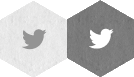
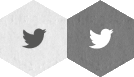
Pieliktas tumšās socikonas; Pacelta "lasīt vairāk" poga'; Titullapa biku vairāk pielāgota mazākiem ekrāniem; Slaidšovs lēnāks, animācija ātrāka, attēli nezūmojas uz šaurākiem ekrāniem

diff --git a/wp-content/plugins/dynamicContent/js/content.js b/wp-content/plugins/dynamicContent/js/content.js
@@ -733,11 +733,12 @@ var Content = Class.extend({
                   $('#background > div:first')
                     .appendTo('#background')
                     .addClass('clipCenterH');                    
-                },  6000);
+                },  8750);
                 
                 if (isMobile) {
                     $('#mback').addClass('hidden');
                 }
+                else $('#bigmore').css('bottom', $('#footer').height()*1.8 + $('#bigmore').height());
             } else {
                 $('#footer .social').css('display', 'none')
                 if (isMobile) {
@@ -794,6 +795,7 @@ var Content = Class.extend({
                 $("#mcontinue").attr('id', "bigmore");
                 this.animateObject('#mfooter #bigmore', 'fadeInUp2', 100, 'in');
             }
+            else $('#bigmore').css('bottom', $('#footer').height()*1.8 + $('#bigmore').height());
             $('#footer').css('background-image','none');
             this.removeAnimation('#footer .social', 'moveDownOut');
             this.animateObject('#footer .social', 'moveUp', 100, 'in');
@@ -807,7 +809,7 @@ var Content = Class.extend({
                   $('#background > div:first')
                     .appendTo('#background')
                     .addClass('clipCenterH');                    
-                },  6000);
+                },  8750);
 
         }
 
@@ -953,7 +955,7 @@ var Content = Class.extend({
                     '<header class="entry-header main_title layer" data-depth="0.3">' + '</header>' + '<div id="intro" class="layer" data-depth="0">' + '<div id ="background" class="layer" data-depth="0.2">' + '<div id="bg1"></div>' + '<div id="bg2"></div>' + '<div id="bg3"></div>' + '<div id="bg4"></div>' + '<div id="bg5"></div>' + '</div>' + '<div id="intro_content" class="layer" data-depth="0">' + item.post_content + '</div>' + '</div>'
                 );
                 else this.article.append(
-                    '<header class="entry-header main_title layer" data-depth="0.3">' + '</header>' + '<div id="intro" class="layer" data-depth="0">' + '<div id ="background" class="layer" data-depth="0.2">' + '<div id="bg1"></div>' + '<div id="bg2"></div>' + '<div id="bg3"></div>' + '<div id="bg4"></div>' + '<div id="bg5"></div>' + '</div>' + '<div id="intro_content" class="layer" data-depth="0">' + item.post_content + '</div>' + '<div id="bigmore"></div>' + '</div>'
+                    '<header class="entry-header main_title layer" data-depth="0.3">' + '</header>' + '<div id="intro" class="layer" data-depth="0">' + '<div id ="background" class="layer" data-depth="0.2">' + '<div id="bg1"></div>' + '<div id="bg2"></div>' + '<div id="bg3"></div>' + '<div id="bg4"></div>' + '<div id="bg5"></div>' + '</div>' + '<div id="intro_content" class="layer" data-depth="0" style="margin-top: 22vmin">' + item.post_content + '</div>' + '<div id="bigmore"></div>' + '</div>'
                 );
                 break;
             case 'templates/citation-full.php':

diff --git a/wp-content/themes/the-box-child/style.css b/wp-content/themes/the-box-child/style.css
@@ -144,12 +144,14 @@ This Theme is licensed under the GPL.
 html{
 	height: 100vh;
 	width: 100%;
-        min-width: 900px;
+        /*min-width: 900px;*/
 }
 
 body{
     margin: 0px;
     padding: 0px;
+    min-width: 600px;
+    min-height: 550px;
 }
 a{
     outline: 0;
@@ -1491,12 +1493,17 @@ a.archive, div.archive{
     left: -5% !important;
 }
 #background div{
-    background-size: cover;
+    background-size: auto 110vh;
     position: absolute;
     width: 110%;
     height: 110%;
     left: -5%;
     top: -5%; 
+}
+@media screen and (min-aspect-ratio: 154/100){
+    #background div{
+        background-size: 110vw auto;
+}
 }
 #bg1{
     background: url(images/background/title1.jpg) no-repeat center center;    
@@ -1555,6 +1562,7 @@ a.archive, div.archive{
 #foreLine {
     height: 1px;
     width: 45%;
+    min-width: 270px;
     background-color: rgba(73, 14, 20, 0.3);
     margin: 0 auto;
 }
@@ -1597,6 +1605,17 @@ a.archive, div.archive{
 /*Titullapas beigas*/
 
 /*media lietas*/
+
+
+@media screen and (max-width: 1024px){
+    #fore1{
+        font-size: 38pt;
+    }
+    .global_botleft{
+        left: 25vw !important;
+    }
+}
+
 @media screen and (max-width: 620px) {
     .text_popup#colorbox{
         width:90vw !important;
@@ -1616,14 +1635,17 @@ a.archive, div.archive{
     .mejs-inner p{
         font-size: 6pt !important;
     }
+    #fore1 {
+        font-size: 32pt;
+    }
 }
 
-@media screen and (max-width: 1024px){
+@media screen and (max-width: 400px){
     #fore1{
-        font-size: 38pt;
+        font-size: 26pt;
     }
-    .global_botleft{
-        left: 25vw !important;
+    #fore2{
+        font-size: 16pt;
     }
 }
 

diff --git a/wp-content/plugins/dynamicContent/animations.css b/wp-content/plugins/dynamicContent/animations.css
@@ -540,8 +540,8 @@
 .clipCenterH{
     -webkit-animation-name: clipCenterH;
             animation-name: clipCenterH;
-    -webkit-animation-duration: 1000ms;
-            animation-duration: 1000ms;
+    -webkit-animation-duration: 750ms;
+            animation-duration: 750ms;
     -webkit-animation-fill-mode: both;
             animation-fill-mode: both;
 }
